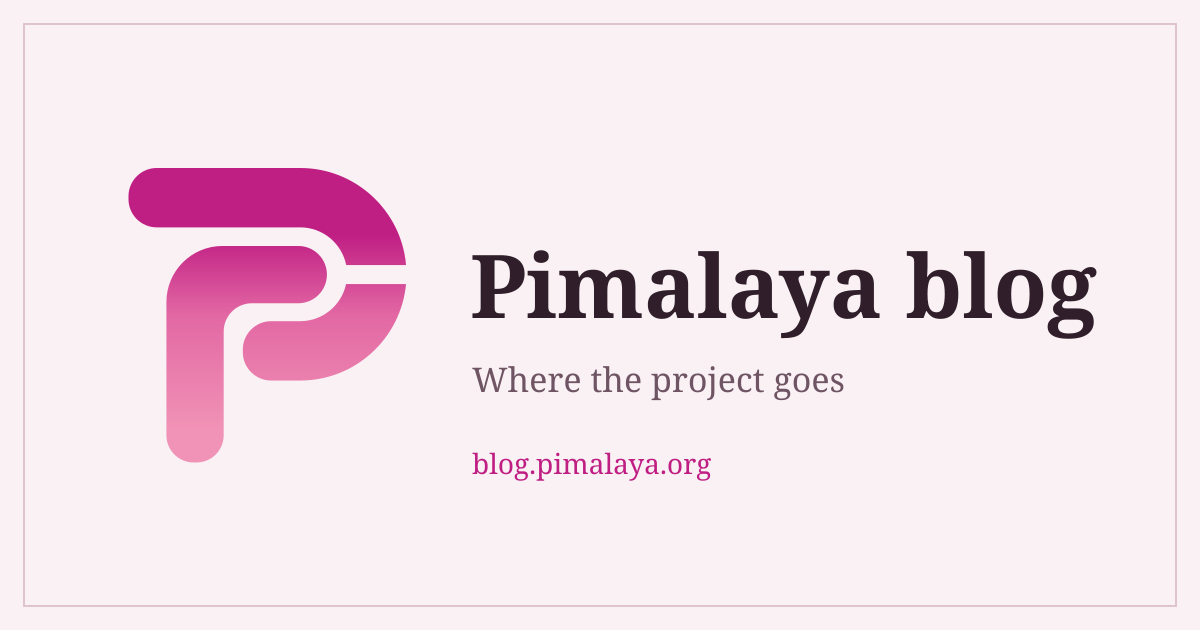
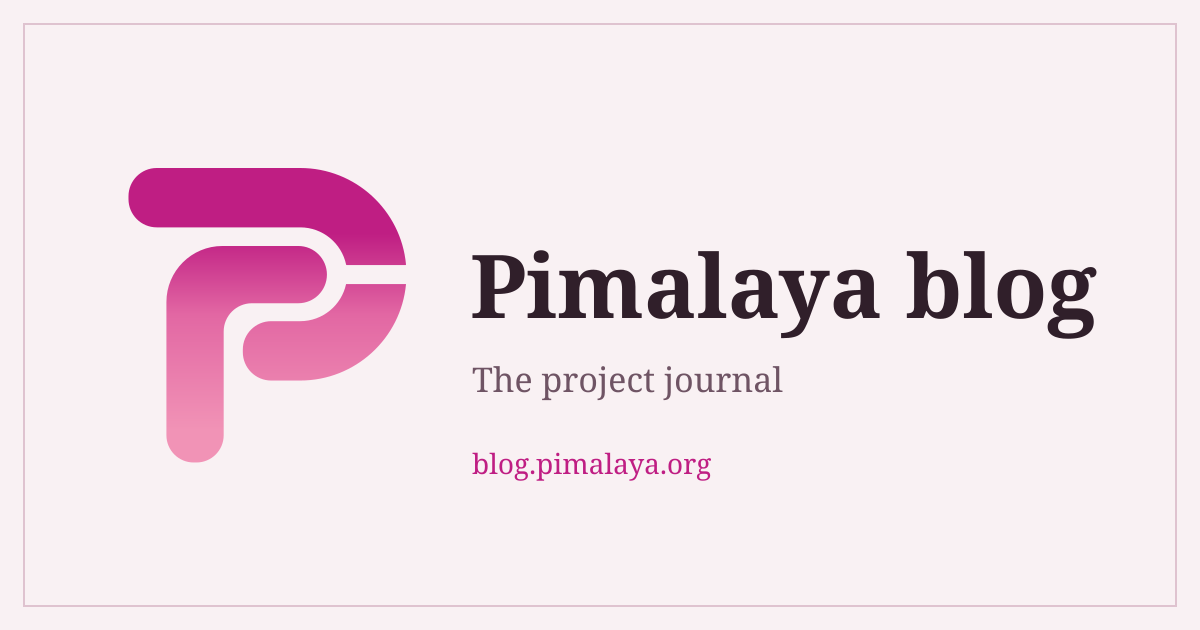
refactor: reword title and description

Changed region(s): [[0.4008, 0.573, 0.7092, 0.6333]]

diff --git a/index.html b/index.html
@@ -8,10 +8,10 @@
     <!-- Icons -->
     <link rel="icon" type="image/svg+xml" href="/favicon.svg" />
 
-    <title>Pimalaya blog: where the project goes</title>
+    <title>Pimalaya blog | The project journal</title>
     <meta
       name="description"
-      content="Half-technical articles on Pimalaya, the open-source PIM tools in Rust: release stories, design notes, and direction posts."
+      content="News from Pimalaya, an ambitious project that aims to improve open-source tools related to personal information management."
     />
     <link rel="canonical" href="https://blog.pimalaya.org/" />
     <link
@@ -24,10 +24,10 @@
     <!-- Open Graph -->
     <meta property="og:type" content="website" />
     <meta property="og:site_name" content="Pimalaya blog" />
-    <meta property="og:title" content="Pimalaya blog: where the project goes" />
+    <meta property="og:title" content="Pimalaya blog | The project journal" />
     <meta
       property="og:description"
-      content="Half-technical articles on Pimalaya, the open-source PIM tools in Rust: release stories, design notes, and direction posts."
+      content="News from Pimalaya, an ambitious project that aims to improve open-source tools related to personal information management."
     />
     <meta property="og:url" content="https://blog.pimalaya.org/" />
     <meta property="og:locale" content="en_US" />
@@ -36,7 +36,7 @@
     <meta property="og:image:height" content="630" />
     <meta
       property="og:image:alt"
-      content="Pimalaya blog — where the project goes"
+      content="Pimalaya blog, the project journal"
     />
 
     <!-- Twitter card (falls back to the Open Graph tags for the rest) -->

diff --git a/src/entry-server.tsx b/src/entry-server.tsx
@@ -7,15 +7,15 @@ import type { Post } from './lib/posts'
 export { buildFeed } from './lib/feed'
 
 /*
- * Build-time entry (see prerender.js). Renders every page — the index at `/`
- * plus one page per post at `/<slug>/` — to static markup, and hands the post
+ * Build-time entry (see prerender.js). Renders every page to static markup
+ * (the index at `/` plus one page per post at `/<slug>/`), and hands the post
  * data over for the RSS feed and the sitemap.
  */
 
 export interface Page {
   /* '' for the index, otherwise the post slug; the page lands at /<slug>/. */
   slug: string
-  /* <title> text; on posts this carries the "— Pimalaya blog" suffix. */
+  /* <title> text; on posts this carries the "| Pimalaya blog" suffix. */
   title: string
   /* Bare post title for structured data; unset on the index. */
   headline?: string
@@ -28,15 +28,15 @@ export interface Page {
 export function renderPages(): { pages: Page[]; posts: Post[] } {
   const index: Page = {
     slug: '',
-    title: 'Pimalaya blog: where the project goes',
+    title: 'Pimalaya blog | The project journal',
     description:
-      'Half-technical articles on Pimalaya, the open-source PIM tools in Rust: release stories, design notes, and direction posts.',
+      'News from Pimalaya, an ambitious project that aims to improve open-source tools related to personal information management.',
     appHtml: renderToString(<App url="/" />),
   }
 
   const articles: Page[] = posts.map((post) => ({
     slug: post.slug,
-    title: `${post.title} — Pimalaya blog`,
+    title: `${post.title} | Pimalaya blog`,
     headline: post.title,
     description: post.description,
     date: post.date,

diff --git a/src/styles/theme.css b/src/styles/theme.css
@@ -2,7 +2,7 @@
  * Design tokens for the Pimalaya blog.
  *
  * The palette derives from the Pimalaya logo gradient (#f193b6 → #e267a3 →
- * #bf1e83): rosy paper, plum ink, magenta accent — the Carillon website's
+ * #bf1e83): rosy paper, plum ink, magenta accent, the Carillon website's
  * letterpress structure re-inked in the brand colours. Everything downstream
  * references these variables, so re-theming is a single-file job.
  */
@@ -23,10 +23,10 @@
   --on-dark-soft: #bb9cad;
 
   /* ---- Accents ---- */
-  --accent: #bf1e83; /* logo magenta — primary brand accent */
+  --accent: #bf1e83; /* logo magenta, primary brand accent */
   --accent-ink: #97156a; /* darker magenta for hover / links */
   --accent-wash: #f7d9ea; /* soft accent background fill */
-  --rose: #e267a3; /* logo mid-pink — secondary tone (highlights on dark) */
+  --rose: #e267a3; /* logo mid-pink, secondary tone (highlights on dark) */
   --green: #3f7d54; /* "available" status */
 
   /* ---- Lines ---- */

diff --git a/src/lib/feed.ts b/src/lib/feed.ts
@@ -1,6 +1,6 @@
 /*
  * RSS 2.0 feed for the blog, full article content included. Built from the
- * post data only — never from the build clock — so the output stays
+ * post data only (never from the build clock), so the output stays
  * byte-reproducible. Used by prerender.js (written to dist/feed.xml) and by
  * the dev-server middleware in vite.config.ts (served live at /feed.xml).
  */
@@ -28,7 +28,7 @@ export function buildFeed(): string {
   <channel>
     <title>Pimalaya blog</title>
     <link>${siteUrl}/</link>
-    <description>Half-technical articles on Pimalaya, the open-source PIM tools in Rust.</description>
+    <description>News from Pimalaya, an ambitious project that aims to improve open-source tools related to personal information management.</description>
     <language>en</language>
     <atom:link href="${siteUrl}/feed.xml" rel="self" type="application/rss+xml"/>
     ${posts.length ? `<lastBuildDate>${rfc822(posts[0].date)}</lastBuildDate>` : ''}

diff --git a/src/components/Subscribe.tsx b/src/components/Subscribe.tsx
@@ -15,8 +15,8 @@ export function Subscribe() {
         <span className="eyebrow subscribe__eyebrow">Follow along</span>
         <h2 className="subscribe__title">New posts, wherever you read</h2>
         <p className="subscribe__lead">
-          Every article lands in the RSS feed and in your inbox — no tracking,
-          unsubscribe anytime.
+          Every article lands in the RSS feed and in your inbox (no tracking,
+          unsubscribe anytime).
         </p>
 
         <div className="subscribe__actions">

diff --git a/src/components/ui/Logo.tsx b/src/components/ui/Logo.tsx
@@ -2,7 +2,7 @@ import './Logo.css'
 
 /*
  * Pimalaya blog wordmark: the official Pimalaya "P" (from pimalaya/.github
- * logo.svg, pink gradient kept as-is — it is the brand, in both light and dark
+ * logo.svg, pink gradient kept as-is: it is the brand, in both light and dark
  * chrome) beside the name, plus a small "blog" tag. The gradient id is derived
  * from the variant so the nav (light) and footer (dark) instances on one page
  * never collide.

diff --git a/src/lib/posts.ts b/src/lib/posts.ts
@@ -67,7 +67,7 @@ interface Frontmatter {
 
 /*
  * Minimal frontmatter: a leading `---` block of flat `key: value` string
- * pairs. No YAML lists or nesting — posts only need title, description, date
+ * pairs. No YAML lists or nesting: posts only need title, description, date
  * and the optional draft flag, so a real YAML parser would be dead weight.
  */
 function parseFrontmatter(raw: string, slug: string): { fm: Frontmatter; body: string } {

diff --git a/src/App.tsx b/src/App.tsx
@@ -6,7 +6,7 @@ import { posts } from './lib/posts'
 
 /*
  * Every page is prerendered at build time (see prerender.js), so this is not a
- * router — it just picks the page for one URL: `/` is the post index, and
+ * router; it just picks the page for one URL: `/` is the post index, and
  * `/<slug>/` is the matching article. The same switch serves the dev server,
  * where Vite falls back to index.html for every path.
  */

diff --git a/src/components/IndexPage.tsx b/src/components/IndexPage.tsx
@@ -5,7 +5,7 @@ import { Subscribe } from './Subscribe'
 import './IndexPage.css'
 
 /*
- * The blog front page. The very first post (the oldest — posts are sorted
+ * The blog front page. The very first post (the oldest; posts are sorted
  * newest first) opens the page as a hero and serves as the blog's
  * description; the remaining posts follow as the index, then the subscribe
  * box.

diff --git a/src/components/PostPage.css b/src/components/PostPage.css
@@ -218,7 +218,7 @@
 .hljs-section,
 .hljs-function,
 .hljs-title.function_ {
-  color: #f0dcc0; /* warm cream — neutral against the pinks */
+  color: #f0dcc0; /* warm cream, neutral against the pinks */
 }
 
 .hljs-type,

diff --git a/src/components/ui/Logo.css b/src/components/ui/Logo.css
@@ -10,10 +10,8 @@
 }
 
 .logo__word {
-  font-family: var(--font-display);
   font-size: 1.4rem;
-  font-weight: 600;
-  letter-spacing: -0.01em;
+  font-weight: 500;
   color: var(--ink);
 }
 
